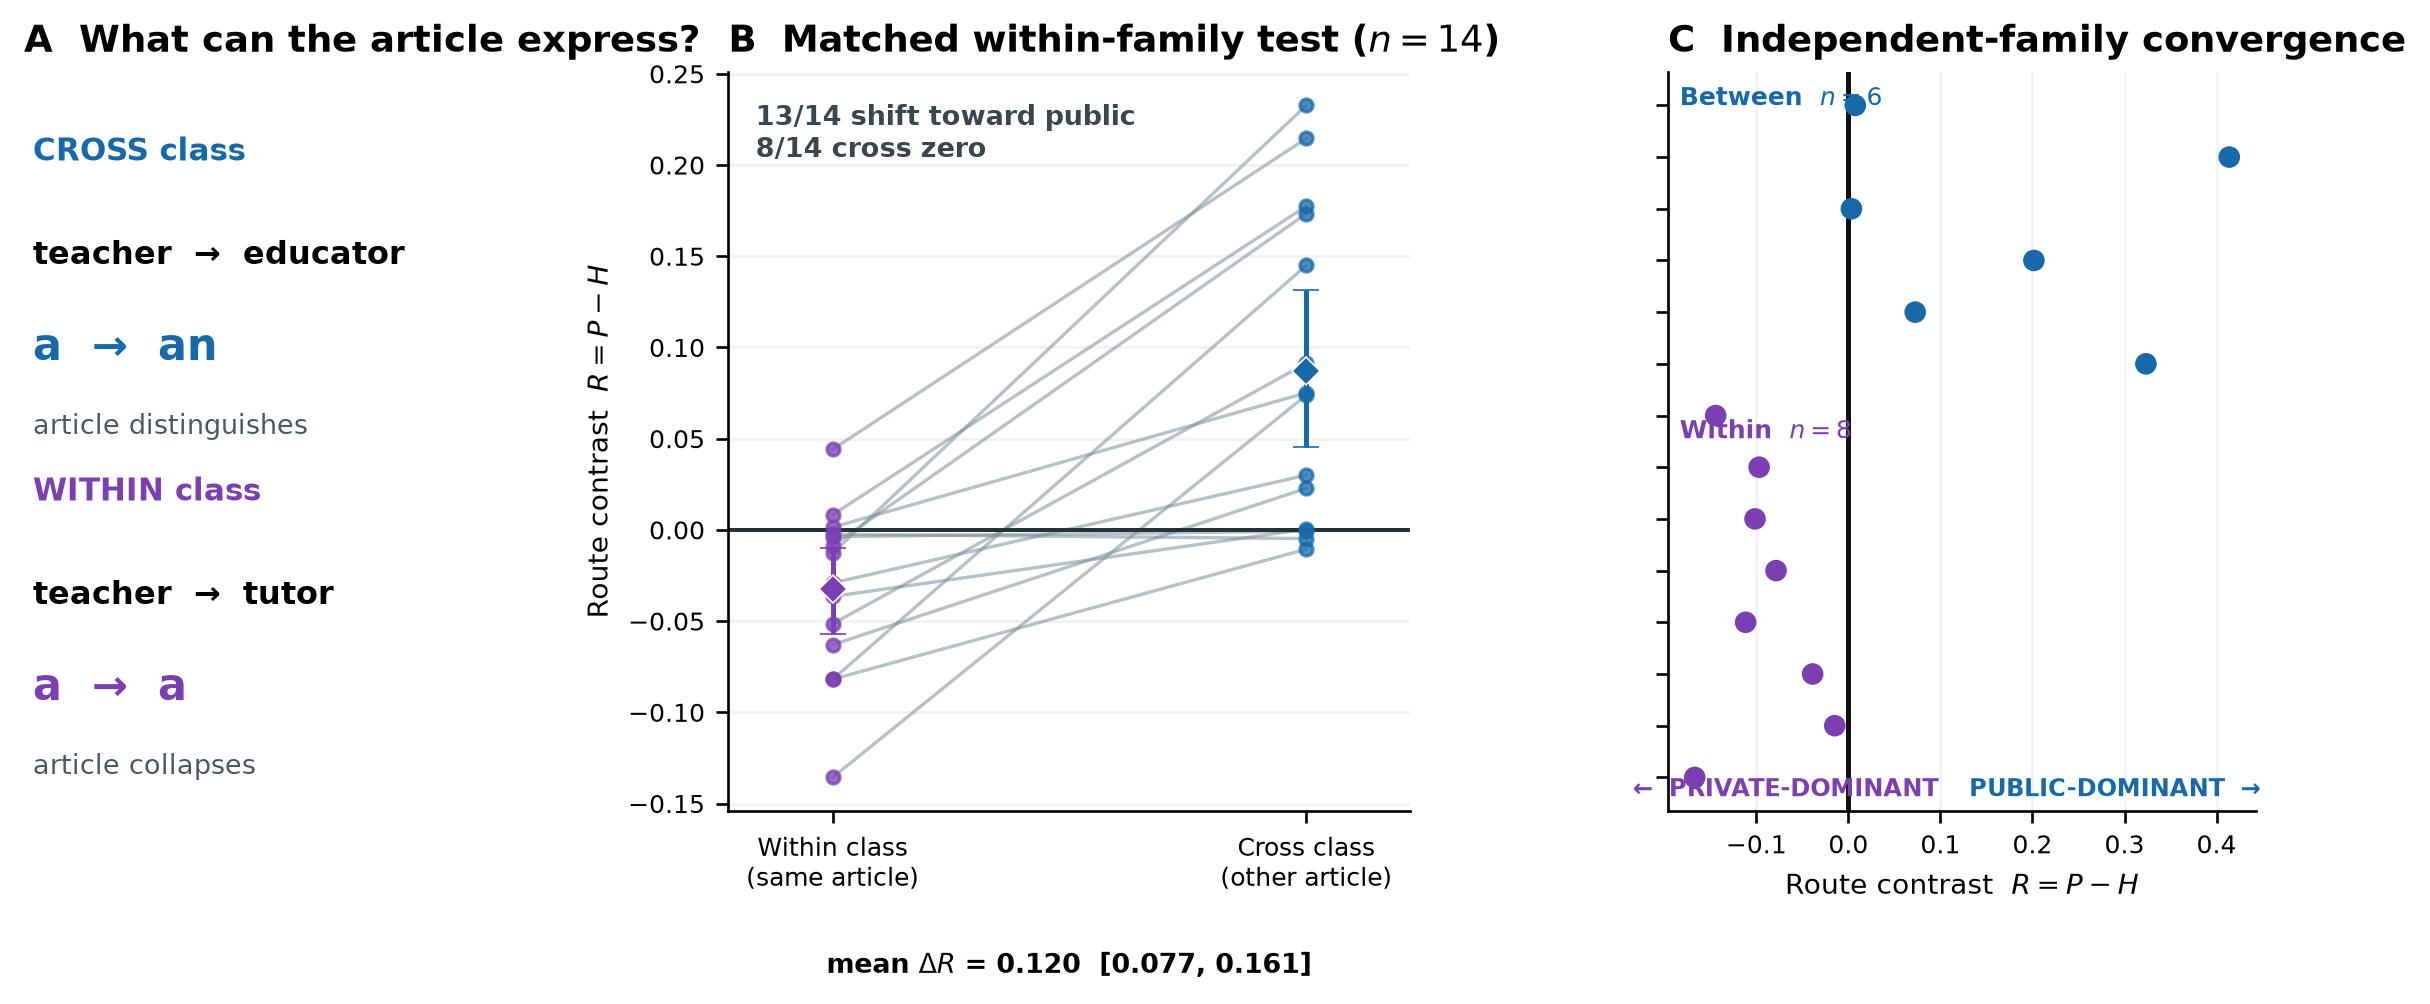
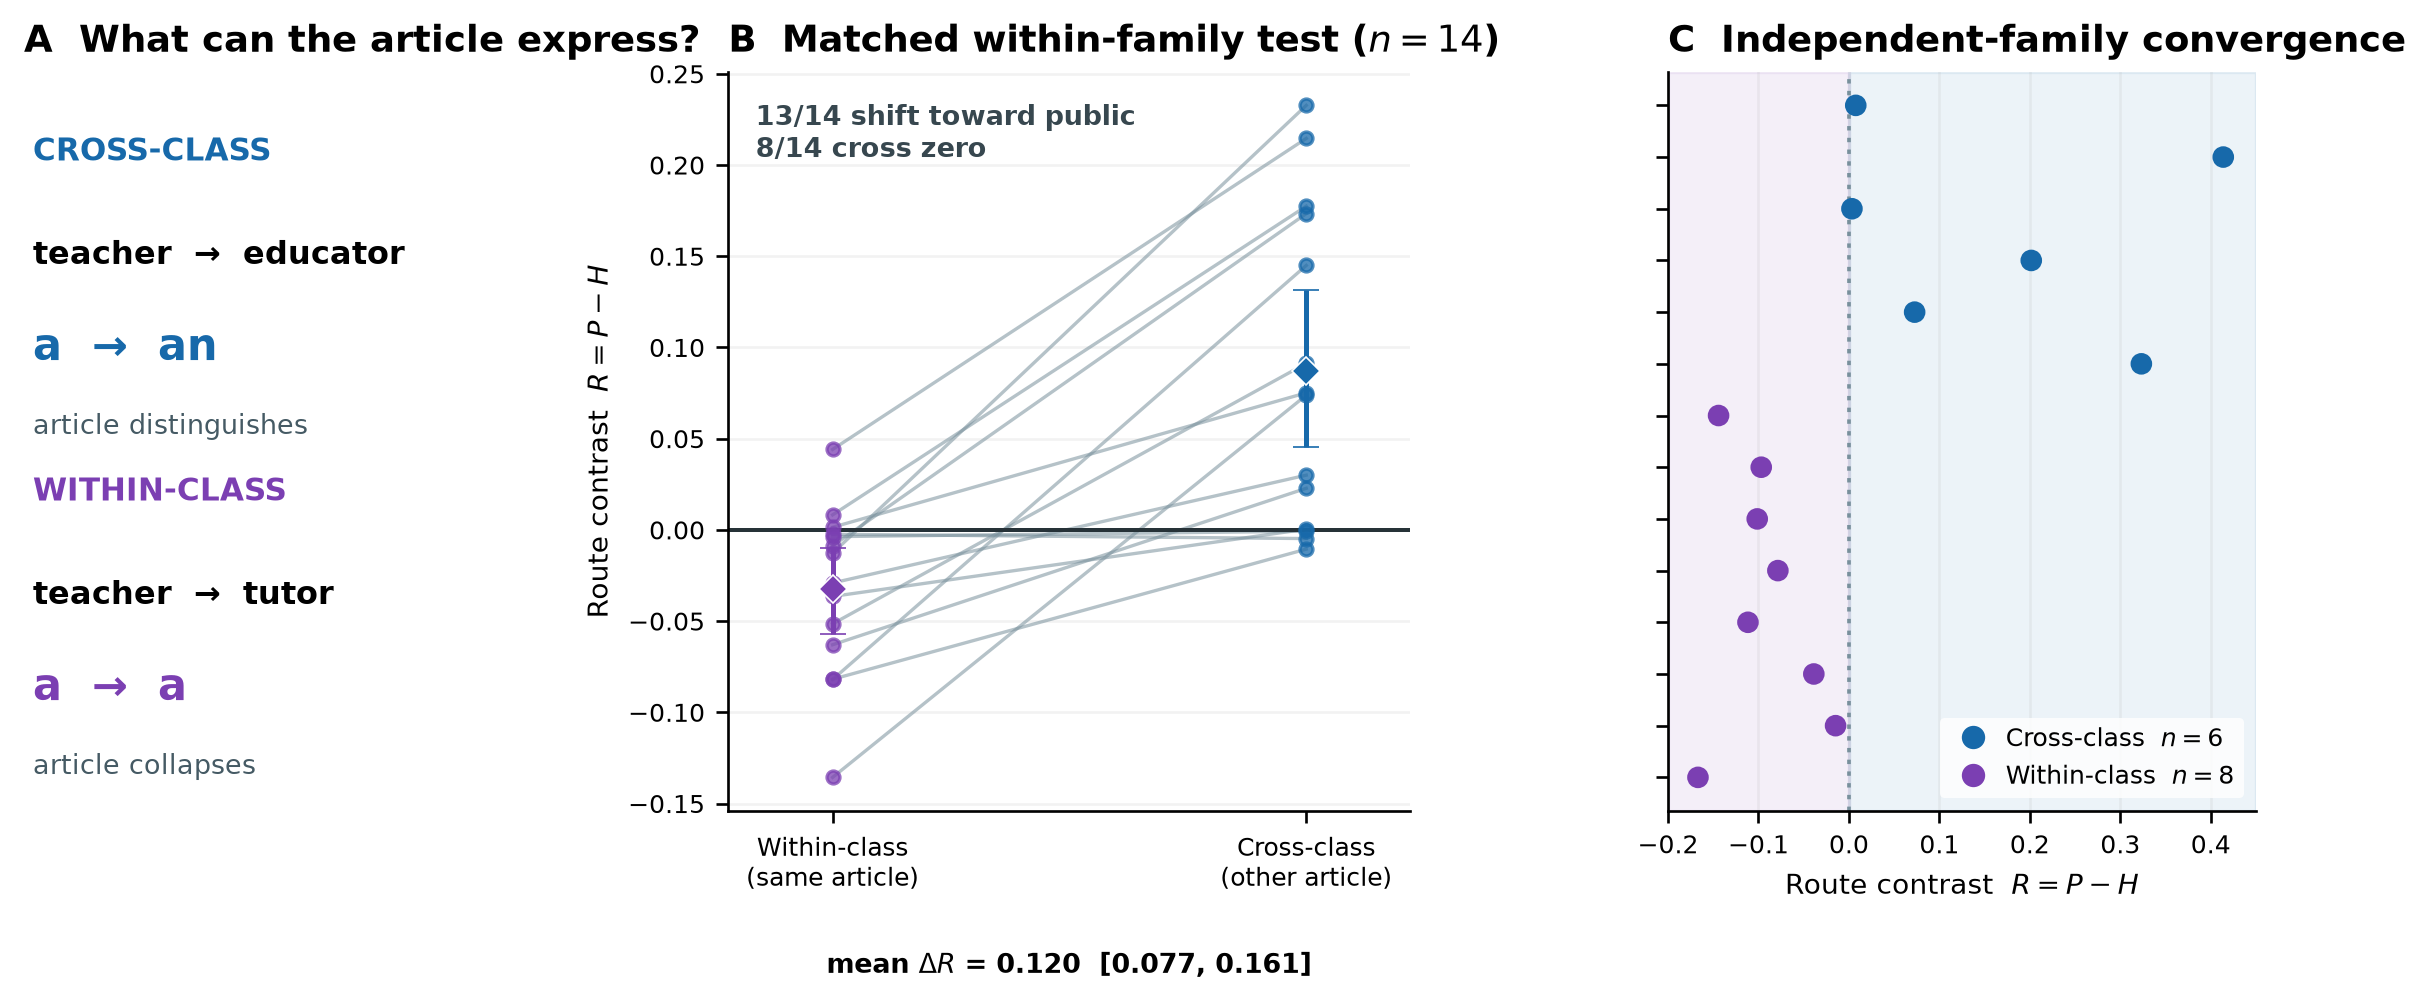
Harden final manuscript and clarify mediator-route evidence
This final hardening pass incorporates the mentor review and the requested Figure 4C repair. The figure now uses explicit Cross-class and Within-class labels, purple/blue background regions for the route-partition, a fine gray dotted zero boundary, and a non-overlapping legend. Reader-facing mediator terminology is standardized throughout the methods, results, captions, and appendix while retaining between-family only for the semantic-composition confound.

The manuscript now explicitly defines Hanna and Ameisen's latent-planning criterion, distinguishes transmission route from functional planning interpretation, scopes S1 as a transmission result rather than an independently selected noun-specific planning representation, and states that donor-derived synonym interventions test routing rather than spontaneous plan formation. The gain-law claim is softened to limited predictive validation in the decisive-policy regime, and the Mueller et al. causal-mediator survey is cited with complete metadata.

The limitations section was compressed so the nine-page main text ends before References on page 10. The PDF lint now normalizes line-wrapped text, checks for obsolete terminology and main-text spillover above References, and verifies the revised conceptual bridge. The manuscript was rendered with bin/render-paper neurips submission, passed PDF lint, and underwent visual inspection of the full rendered document, including the repaired appendix reproducibility table.

diff --git a/experiments/neutral_synonym_repair/plot.py b/experiments/neutral_synonym_repair/plot.py
@@ -3,6 +3,7 @@
 import json
 from pathlib import Path
 import matplotlib.pyplot as plt
+from matplotlib.lines import Line2D
 import numpy as np
 
 EXP=Path(__file__).resolve().parent
@@ -18,8 +19,8 @@ def native_rows(regime):return [r for r in ROWS if r["regime"]==regime and r["st
 def main():
     fig=plt.figure(figsize=(12.0,4.0));gs=fig.add_gridspec(1,3,width_ratios=(.95,1.45,1.25),wspace=.45)
     ax=fig.add_subplot(gs[0]);ax.axis("off");ax.set_title("A  What can the article express?",loc="left",weight="bold",fontsize=11)
-    examples=[(.74,"CROSS class","teacher  →  educator","a  →  an",PUBLIC,"article distinguishes"),
-              (.28,"WITHIN class","teacher  →  tutor","a  →  a",PRIVATE,"article collapses")]
+    examples=[(.74,"CROSS-CLASS","teacher  →  educator","a  →  an",PUBLIC,"article distinguishes"),
+              (.28,"WITHIN-CLASS","teacher  →  tutor","a  →  a",PRIVATE,"article collapses")]
     for y,heading,words,articles,color,note in examples:
         ax.text(.02,y+.14,heading,color=color,weight="bold",fontsize=9.2);ax.text(.02,y,words,fontsize=9.5,weight="bold")
         ax.text(.02,y-.13,articles,fontsize=13,color=color,weight="bold");ax.text(.02,y-.23,note,fontsize=8.2,color="#455a64")
@@ -28,13 +29,19 @@ def main():
         for r in native_rows(regime):
             st=r["stochastic"]["1.0"];values.append(st["public"]["target_minus_source"]-st["private"]["target_minus_source"])
             labels.append(f"{r['source_word']} → {r['target_word']}");colors.append(PUBLIC if regime=="between" else PRIVATE)
-    y=np.arange(len(values))[::-1];ax.axvline(0,color="#111111",lw=1.5);ax.scatter(values,y,c=colors,s=30,zorder=3)
+    y=np.arange(len(values))[::-1]
+    ax.set_xlim(-.20,.45)
+    ax.axvspan(-.20,0,color=PRIVATE,alpha=.08,zorder=0)
+    ax.axvspan(0,.45,color=PUBLIC,alpha=.08,zorder=0)
+    ax.axvline(0,color="#78909c",lw=1.1,ls=(0,(1.2,2.0)),zorder=2)
+    ax.scatter(values,y,c=colors,s=30,zorder=3)
     ax.set_yticks(y);ax.set_yticklabels([]);ax.set_xlabel("Route contrast  $R=P-H$",fontsize=8.5)
     ax.set_title("C  Independent-family convergence",loc="left",weight="bold",fontsize=11)
-    ax.text(.76,.02,"PUBLIC-DOMINANT  →",transform=ax.transAxes,color=PUBLIC,fontsize=7.3,ha="center",weight="bold")
-    ax.text(.20,.02,"←  PRIVATE-DOMINANT",transform=ax.transAxes,color=PRIVATE,fontsize=7.3,ha="center",weight="bold")
-    ax.text(.02,.98,"Between  $n=6$",transform=ax.transAxes,color=PUBLIC,fontsize=7.5,va="top",weight="bold")
-    ax.text(.02,.53,"Within  $n=8$",transform=ax.transAxes,color=PRIVATE,fontsize=7.5,va="top",weight="bold")
+    handles=[Line2D([],[],marker="o",ls="",color=PUBLIC,label="Cross-class  $n=6$"),
+             Line2D([],[],marker="o",ls="",color=PRIVATE,label="Within-class  $n=8$")]
+    ax.legend(handles=handles,loc="lower right",ncol=1,frameon=True,fontsize=7.5,
+              handletextpad=.3,borderpad=.35,facecolor="white",edgecolor="none",
+              framealpha=.82)
     ax=fig.add_subplot(gs[1]);primary=TRIAD_ANALYSIS["settings"]["1.0"]["1.0"]
     for row in primary["rows"]:
         ax.plot([0,1],[row["within"],row["cross"]],color="#78909c",alpha=.55,lw=1)
@@ -44,7 +51,7 @@ def main():
         block=primary[key]
         ax.errorbar(x0,block["mean"],yerr=[[block["mean"]-block["lo"]],[block["hi"]-block["mean"]]],
                     fmt="D",ms=6,capsize=4,color=color,mec="white",mew=.5,zorder=5)
-    ax.axhline(0,color="#263238",lw=1.2);ax.set_xlim(-.22,1.22);ax.set_xticks([0,1],["Within class\n(same article)","Cross class\n(other article)"],fontsize=8)
+    ax.axhline(0,color="#263238",lw=1.2);ax.set_xlim(-.22,1.22);ax.set_xticks([0,1],["Within-class\n(same article)","Cross-class\n(other article)"],fontsize=8)
     ax.set_ylabel("Route contrast  $R=P-H$",fontsize=8.5);ax.set_title("B  Matched within-family test ($n=14$)",loc="left",weight="bold",fontsize=11)
     effect=primary["paired_interaction"]
     ax.text(.5,-.22,f"mean $\\Delta R$ = {effect['mean']:.3f}  [{effect['lo']:.3f}, {effect['hi']:.3f}]",transform=ax.transAxes,ha="center",fontsize=8,weight="bold")
